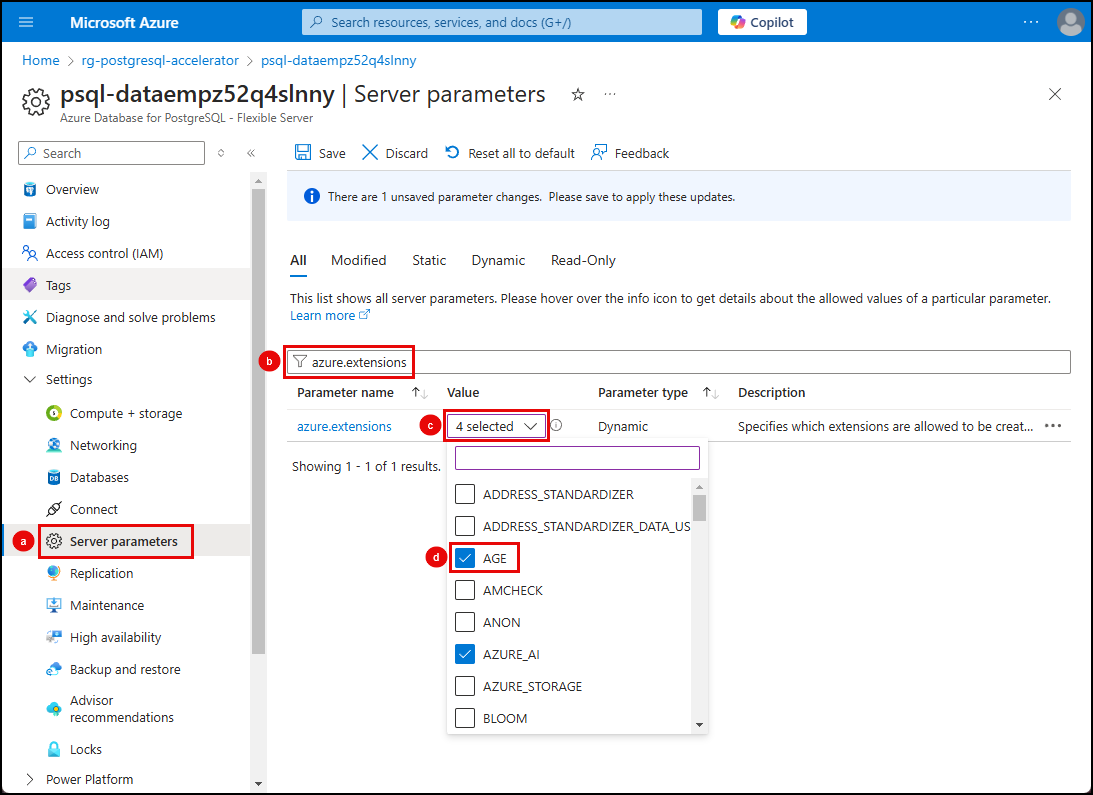
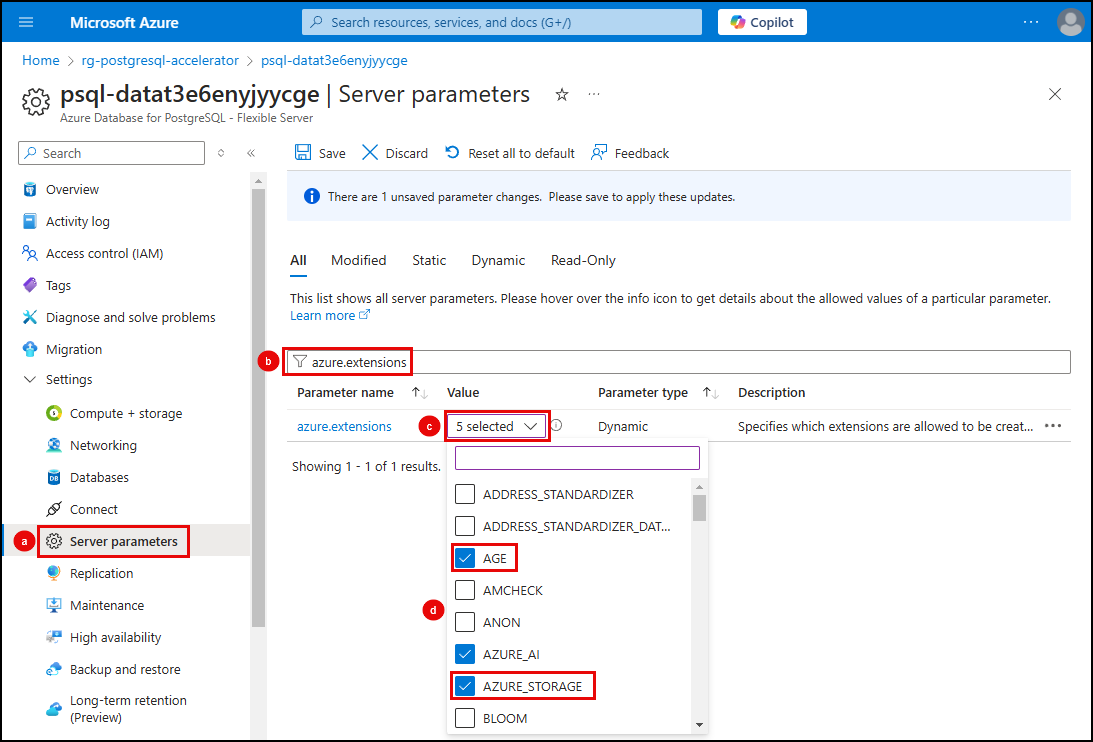
Updating GraphRAG docs

Changed region(s): [[0.0, 0.0, 1.0, 1.0], [0.2177, 0.8059, 0.2489, 0.8369], [0.2177, 0.217, 0.2489, 0.248]]

diff --git a/docs/workshop/docs/06-Improve-RAG-Accuracy/04.md b/docs/workshop/docs/06-Improve-RAG-Accuracy/04.md
@@ -1,39 +1,33 @@
 # 6.4 Review GraphRAG
 
-**GraphRAG** (Graph Retrieval-Augmented Generation) is an innovative technique developed by Microsoft Research. It significantly enhances the accuracy and relevance of responses generated by Retrieval-Augmented Generation (RAG) systems. _Graph_ refers to a data structure that represents entities and their relationships. This structure is often visualized as nodes (vertices) and edges, where nodes represent entities and edges represent the relationships or connections between these entities.
-
-The GraphRAG technique involves three main steps:
-
-1. **Graph Extraction**: Creating a knowledge graph from the source data.
-2. **Entity Summarization**: Summarizing entities within the graph to capture essential information.
-3. **Graph Query Generation**: Generating graph queries at query time to retrieve relevant information based on the prominence and relationships within the graph.
+**GraphRAG** (Graph Retrieval-Augmented Generation) is an innovative technique developed by Microsoft Research. It significantly enhances the accuracy and relevance of responses generated by Retrieval-Augmented Generation (RAG) systems. _Graph_ refers to a data structure representing entities and their relationships. This structure is often visualized as nodes (vertices) and edges, where nodes represent entities and edges represent the relationships or connections between these entities.
 
 In the context of Azure Database for PostgreSQL, GraphRAG leverages the structure of knowledge graphs extracted from source data to provide better context and improve the quality of responses from language models. By integrating GraphRAG with PostgreSQL, you can enhance the information retrieval pipeline, making it more accurate and context-aware. This is particularly useful for applications where the accuracy and relevance of information are critical.
 
+???+ question "Want a more extensive example of GraphRAG with Azure Database for PostgreSQL?"
+
+    This solution accelerator presents a simplified GraphRAG implementation to show you how you can improve the accuracy of RAG by leveraging a graph database. For a more comprehensive example that combines the results of semantic ranking and GraphRAG, please refer to the [Introducting the GraphRAG Solution for Azure Database for PostgreSQL](https://techcommunity.microsoft.com/blog/adforpostgresql/introducing-the-graphrag-solution-for-azure-database-for-postgresql/4299871) blob post and associated [GraphRAG Solution Accelerator for Azure Database for PostgreSQL](https://github.com/Azure-Samples/graphrag-legalcases-postgres).
+
 ## GraphRAG with AGE
 
-[Apache Graph Extension](https://age.apache.org/age-manual/master/index.html) (AGE) is a PostgreSQL extension developed under the Apache Incubator project. It offers a significant advancement that provides graph processing capabilities within the PostgreSQL ecosystem, enabling users to store and query graph data efficiently. This new extension brings a powerful toolset for developers looking to leverage a graph database with the robust enterprise features of Azure Database for PostgreSQL.
+[Apache Graph Extension](https://age.apache.org/age-manual/master/index.html) (AGE) is a PostgreSQL extension developed under the Apache Incubator project. It offers a significant advancement that provides graph processing capabilities within the PostgreSQL ecosystem, enabling users to store efficiently and query graph data. This new extension brings a powerful toolset for developers looking to leverage a graph database with the robust enterprise features of Azure Database for PostgreSQL.
 
 ![Architecture diagram for GraphRAG using the Apache AGE extension and Azure Database for PostgreSQL.](../img/graphrag-solution-architecture.png)
 
 With AGE, you can manage and analyze complex relationships within your data, uncovering insights that traditional relational databases and even semantic search might miss.
 
----
+### Key Features
 
-_Select the tabs below to discover the key features and benefits of using AGE in Azure Database for PostgreSQL._
+- **Graph and relational data integration**: AGE allows seamless integration of graph data with existing relational data in PostgreSQL. This hybrid approach lets you benefit from both graph and relational models simultaneously.
+- **openCypher query language**: AGE incorporates openCypher, a powerful and user-friendly query language designed explicitly for graph databases. This feature simplifies the process of writing and executing graph queries.
+- **High performance**: AGE is optimized for performance, ensuring efficient storage and retrieval of graph data thanks to support for indexing graph properties using GIN indices.
+- **Scalability**: Built on PostgreSQL's proven architecture, AGE inherits its scalability and reliability, allowing it to handle growing datasets and increasing workloads.
 
-=== "Key Features"
+### Benefits
 
-    - **Graph and Relational Data Integration**: AGE allows seamless integration of graph data with existing relational data in PostgreSQL. This hybrid approach lets you benefit from both graph and relational models simultaneously.
-    - **openCypher Query Language**: AGE incorporates openCypher, a powerful and user-friendly query language specifically designed for graph databases. This feature simplifies the process of writing and executing graph queries.
-    - **High Performance**: AGE is optimized for performance, ensuring efficient storage and retrieval of graph data thanks to support for indexing graph properties using GIN indices.
-    - **Scalability**: Built on PostgreSQL's proven architecture, AGE inherits its scalability and reliability, allowing it to handle growing datasets and increasing workloads.
+The integration of AGE in Azure Database for PostgreSQL brings numerous practical benefits to developers and businesses looking to leverage graph processing capabilities:
 
-=== "Benefits"
-
-    The integration of AGE in Azure Database for PostgreSQL brings numerous practical benefits to developers and businesses looking to leverage graph processing capabilities:
-    
-    - **Simplified Data Management**: AGE's ability to integrate graph and relational data simplifies data management tasks, reducing the need for separate graph database solutions.
-    - **Enhanced Data Analysis**: With AGE, you can perform complex graph analyses directly within your PostgreSQL database, gaining deeper insights into relationships and patterns in your data.
-    - **Cost Efficiency**: By utilizing AGE within Azure Database for PostgreSQL, you can consolidate your database infrastructure, lowering overall costs and reducing the complexity of your data architecture.
-    - **Security and Compliance**: AGE leverages Azure's industry-leading security and compliance features to ensure your graph data is protected and meets regulatory requirements, providing you with peace of mind.
+- **Simplified data management**: AGE's ability to integrate graph and relational data simplifies data management tasks, reducing the need for separate graph database solutions.
+- **Enhanced data analysis**: With AGE, you can perform complex graph analyses directly within your PostgreSQL database, gaining deeper insights into relationships and patterns in your data.
+- **Cost efficiency**: By utilizing AGE within Azure Database for PostgreSQL, you can consolidate your database infrastructure, lowering overall costs and reducing the complexity of your data architecture.
+- **Security and compliance**: AGE leverages Azure's industry-leading security and compliance features to ensure your graph data is protected and meets regulatory requirements, providing peace of mind.

diff --git a/docs/workshop/docs/06-Improve-RAG-Accuracy/05.md b/docs/workshop/docs/06-Improve-RAG-Accuracy/05.md
@@ -1,10 +1,12 @@
 # 6.5 Enable AGE
 
-The **Apache AGE** (`age`) extension enhances PostgreSQL by allowing it to be used as a graph database, providing a comprehensive solution for analyzing interconnected data. With `age`, you can define and query complex data relationships using graph structures. Before using AGE, add it to the PostgreSQL server's _allowlist_, configure it as a shared preloaded library, and install it in your database.
+The **Apache AGE** (`age`) extension enhances PostgreSQL by allowing it to be used as a graph database, providing a comprehensive solution for analyzing interconnected data. With `age`, you can define and query complex data relationships using graph structures.
 
-## Allowlist the extension
+To simplify the extraction of data from your PostgreSQL database into CSV files hosted in Azure Blob Storage, you will also use the [Azure Storage extension](https://learn.microsoft.com/azure/postgresql/flexible-server/how-to-use-pg-azure-storage) (`azure_storage`). This extension allows you to connect directly to an Azure Storage account from your PostgreSQL database, copy data out of the database, and write it into files in blob storage. From your storage account, the CSV files will be used as the data source for your graph database.
 
-Before installing and using extensions in Azure Database for PostgreSQL flexible server, you must add them to the server's _allowlist_, as described in [how to use PostgreSQL extensions](https://learn.microsoft.com/azure/postgresql/extensions/how-to-allow-extensions).
+## Allowlist the extensions
+
+Before using `age` and `azure_storage` extensions, add them to the PostgreSQL server's _allowlist_, configure them as shared preloaded libraries, and install them in your database.
 
 _Select the tab for the method you want to use for allowlisting the extensions and follow the instructions provided._
 
@@ -19,7 +21,7 @@ _Select the tab for the method you want to use for allowlisting the extensions a
             - **[YOUR_SUBSCRIPTION_ID]**: Your Azure subscription ID.
         
         ```bash
-        az postgres flexible-server parameter set --resource-group [YOUR_RESOURCE_GROUP] --server-name [YOUR_POSTGRESQL_SERVER] --subscription [YOUR_SUBSCRIPTION_ID] --name azure.extensions --value age
+        az postgres flexible-server parameter set --resource-group [YOUR_RESOURCE_GROUP] --server-name [YOUR_POSTGRESQL_SERVER] --subscription [YOUR_SUBSCRIPTION_ID] --name azure.extensions --value age,azure_storage
         ```
 
 === "Azure portal"
@@ -30,15 +32,15 @@ _Select the tab for the method you want to use for allowlisting the extensions a
         1. Expand the **Settings** section and select **Server parameters**.
         2. Enter "azure.extensions" into the search filter.
         3. Expand the **VALUE** dropdown list.
-        4. Select the **AGE** extension by checking the its box in the **VALUE** dropdown list.
+        4. Select the **AGE** and **AZURE_STORAGE** extensions by checking the box for each in the **VALUE** dropdown list.
 
-        ![Screenshot of the steps to allowlist the AGE extension in the Azure portal.](../img/allow-extensions-age.png)
+        ![Screenshot of the steps to allowlist the AGE and AZURE_STORAGE extensions in the Azure portal.](../img/allow-extensions-age.png)
 
-## Load AGE on server start
+## Load extensions on server start
 
 Some Postgres libraries need to perform certain operations that can only take place at postmaster start, such as allocating shared memory, reserving lightweight locks, or starting background workers. `AGE` relies on shared memory for its operations, so it must be loaded at server start. The `shared_preload_libraries` parameter in PostgreSQL is used to specify libraries that should be loaded at server startup, enabling additional functionalities or extensions before any connections are made.
 
-_Select the tab for the method you want to use for updating the `shared_preload_libraries` parameter and follow the instructions provided._
+_Select the tab for the method you want to use to update the `shared_preload_libraries` parameter and follow the instructions provided._
 
 === "Azure CLI"
 
@@ -51,7 +53,7 @@ _Select the tab for the method you want to use for updating the `shared_preload_
             - **[YOUR_SUBSCRIPTION_ID]**: Your Azure subscription ID.
         
         ```bash
-        az postgres flexible-server parameter set --resource-group [YOUR_RESOURCE_GROUP] --server-name [YOUR_POSTGRESQL_SERVER] --subscription [YOUR_SUBSCRIPTION_ID] --name shared_preload_libraries --value age,pg_cron,pg_stat_statements
+        az postgres flexible-server parameter set --resource-group [YOUR_RESOURCE_GROUP] --server-name [YOUR_POSTGRESQL_SERVER] --subscription [YOUR_SUBSCRIPTION_ID] --name shared_preload_libraries --value age,azure_storage,pg_cron,pg_stat_statements
         ```
     
         !!! info "`pg_cron` and `pg_stat_statements` are set by default, so they are included in the above command to avoid removing them from the `shared_preload_libraries` parameter."
@@ -74,16 +76,20 @@ _Select the tab for the method you want to use for updating the `shared_preload_
 
         1. Enter "shared_preload" into the search filter.
         2. Expand the **VALUE** dropdown list.
-        3. Select the **AGE** extension by checking the its box in the **VALUE** dropdown list.
+        3. Select the **AGE** and **AZURE_STORAGE** extensions by checking the box for each in the **VALUE** dropdown list.
         4. Select **Save** on the toolbar.
 
-        ![Screenshot of the steps to add AGE to the shared_preload_libraries parameter in the Azure portal.](../img/shared-preload-libraries-add-age.png)
+        ![Screenshot of the steps to add AGE and AZURE_STORAGE to the shared_preload_libraries parameter in the Azure portal.](../img/shared-preload-libraries-add-age.png)
 
-    2. Select **Save** will trigger a restart of the PostgreSQL server and will take a few seconds to complete. 
+    2. Select **Save** will trigger a restart of the PostgreSQL server and will take a few seconds to complete.
 
-## Install AGE
+    3. In the _Save server parameter_ dialog that appears, select **Save and Restart**.
 
-With the `AGE` extension added to the _allowlist_ and loaded on your PostgreSQL server, you can install it in your database using the [CREATE EXTENSION](https://www.postgresql.org/docs/current/sql-createextension.html) command.
+        ![Screenshot of the Save server parameter dialog, with the Save and Restart button highlighted.](../img/azure-postgresql-save-server-parameter-dialog.png)
+
+## Install extensions
+
+With the `AGE` and `AZURE_STORAGE` extensions added to the _allowlist_ and loaded on your PostgreSQL server, you can install them in your database using the [CREATE EXTENSION](https://www.postgresql.org/docs/current/sql-createextension.html) command.
 
 !!! warning "At this time, the AGE extension is in preview and will only be available for newly created Azure Database for PostgreSQL Flexible Server instances running at least PG13 up to PG16."
 
@@ -95,8 +101,9 @@ You will use **pgAdmin** to install the extension by executing a SQL command aga
 
 3. Right-click the **contracts** database and select **Query Tool** from the context menu.
 
-4. Install the `age` extension by running the following `CREATE EXTENSION` command in the pgAdmin query window:
+4. Install the `age` and `azure_storage` extensions by running the following `CREATE EXTENSION` commands in the pgAdmin query window:
 
     ```sql title=""
     CREATE EXTENSION IF NOT EXISTS age;
+    CREATE EXTENSION IF NOT EXISTS azure_storage;
     ```

diff --git a/docs/workshop/docs/06-Improve-RAG-Accuracy/06.md b/docs/workshop/docs/06-Improve-RAG-Accuracy/06.md
@@ -1,3 +1,115 @@
-# 6.6 Update App With GraphRAG
+# 6.6 Export Graph Data
 
-TODO: Add a new API endpoint associated with the copilot to allow GraphRAG queries to be executed and relationship nodes returned...
+You must export data from your PostgreSQL database to populate your graph database. Using the Azure Storage (`azure_storage`) extension for Azure Database for PostgreSQL provides a streamlined method for copying data out of your PostgreSQL database into CSV files in Azure Blob Storage. In the context of `AGE` and loading data into a graph database, the `azure_storage` extension facilitates the extraction of relational data from your PostgreSQL database, enabling efficient transfer to Blob Storage. This process ensures that the data needed for constructing and querying your graph database is readily available and can be seamlessly integrated into your data workflows.
+
+## Connect your database to Azure Storage
+
+You will use **pgAdmin** to configure the `azure_storage` extension's connection to your storage account by executing SQL commands against your database.
+
+!!! note "Ensure you replace the token in the commands below with the appropriate values from your Azure environment."
+
+    Each SQL statement you will execute below contains a `[YOUR_STORAGE_ACCOUNT_NAME]` token. Before running any of the queries, you must replace this token with the name of your _Storage account_ resource, which you can copy from the Azure portal.
+
+1. On your local machine, return to the open instance of **pgAdmin** (or open it if you have closed it) and ensure it is connected to your PostgreSQL database.
+
+2. In the pgAdmin **Object Explorer**, expand databases under your PostgreSQL server.
+
+3. Right-click the **contracts** database and select **Query Tool** from the context menu.
+
+4. Run the following command to use the `azure_storage.account_add()` function to define a connection between your storage account and your PostgreSQL database:
+
+    ```sql
+    SELECT azure_storage.account_add(azure_storage.account_options_managed_identity('[YOUR_STORAGE_ACCOUNT_NAME]', 'blob'));
+    ```
+
+    ??? note "About the `account_add() function"
+
+        In the above `account_add()` function call, the `azure_storage.account_options_managed_identity()` function is passed as the `account_config` parameter. This function returns a _JSONB_ object containing the configuration required to authenticate against the storage account using your PostgreSQL database's managed identity. It expects the name of the target storage account and the storage type, which currently only supports `blob`. Your PostgreSQL database was configured with a system-assigned identity during resource provisioning. That identity was granted the `Storage Blob Data Contributor` role on your storage account, which allows your database to read and write files from blob storage.
+
+## Export data to blob storage
+
+As part of the data export process, you will use queries to reshape the source data into the format required to efficiently define nodes and edges in your graph database. Traditional relational databases organize data in tables, while graph databases use nodes and edges to represent entities and their relationships. Converting tabular data into nodes and edges aligns with the graph structure, making relationship analysis more efficient. This transformation enables natural modeling of real-world entities, optimizes query performance, and allows for complex relationship analysis, such as evaluating vendor performance and invoice validation. By reshaping your data, you can fully leverage the strengths of `AGE` and Azure Database for PostgreSQL for deeper insights and sophisticated analyses.
+
+You will define three _nodes_ and one _edge_ in your graph database. The nodes will contain data vendor, SOW, and invoice validation results data. The edge will define the relationship between these.
+
+You will use **pgAdmin** to execute data export queries leveraging the `azure_storage` extension.
+
+1. Return to the open **Query Tool** in **pgAdmin**.
+
+2. Run the following query using the `azure_storage.blob_put()` function to write all data from the `vendors` table into a CSV file named `vendors.csv` into your storage account's `graph` container. This data will define the `vendor` node in your graph database.
+
+    ```sql
+    -- Extract data for the vendors node
+    SELECT azure_storage.blob_put(
+        '[YOUR_STORAGE_ACCOUNT_NAME]',
+        'graph',
+        'vendors.csv',
+        vendors,
+        'csv',
+        'none',
+        azure_storage.options_csv_put(header:=true)
+    )
+    FROM (
+        SELECT * FROM vendors
+    ) AS vendors;
+    ```
+
+3. Execute this query to extract `sow` node data from the `sows` table and write it into a CSV file named `sows.csv` into your storage account's `graph` container. The query excludes a few columns from the `sows` table, including the `embedding` column, as they are unnecessary in the graph database and can cause errors.
+
+    ```sql
+    -- Extract data for the SOWs node
+    SELECT azure_storage.blob_put(
+        '[YOUR_STORAGE_ACCOUNT_NAME]',
+        'graph',
+        'sows.csv',
+        sows,
+        'csv',
+        'none',
+        azure_storage.options_csv_put(header:=true)
+    )
+    FROM (
+        SELECT id, number, vendor_id, start_date, end_date, budget FROM sows
+    ) AS sows;
+    ```
+
+4. Run this query to extract `invoice_validation_results` node data from the `invoice_validation_results` table and write it into a CSV file named `invoice_validation_results.csv` into the `graph` container in your storage account. The query excludes the `embedding` column from the `invoice_validation_results` table.
+
+    ```sql
+    -- Extract data for the Invoice validation results node
+    SELECT azure_storage.blob_put(
+        '[YOUR_STORAGE_ACCOUNT_NAME]',
+        'graph',
+        'invoice_validation_results.csv',
+        invoice_validation_results,
+        'csv',
+        'none',
+        azure_storage.options_csv_put(header:=true)
+    )
+    FROM (
+        SELECT id, invoice_id, datestamp, result, validation_passed FROM invoice_validation_results
+    ) AS invoice_validation_results;
+    ```
+
+5. Finally, run the following query to extract `has_invoices` edge data from the `invoices` table and write it into a CSV file named `has_invoices.csv` into the `graph` container in your storage account:
+
+    ```sql
+    -- Create the has_invoices edge
+    SELECT azure_storage.blob_put(
+        '[YOUR_STORAGE_ACCOUNT_NAME]',
+        'graph',
+        'has_invoices.csv',
+        invoices,
+        'csv',
+        'none',
+        azure_storage.options_csv_put(header:=true)
+    )
+    FROM (
+        SELECT id, vendor_id as start_id, 'vendor' AS start_vertex_type, sow_id AS end_id, 'sow' AS end_vertex_type, number, amount, invoice_date, payment_status FROM invoices
+    ) AS invoices;
+    ```
+
+    !!! note "Edge definition details"
+
+        When using `AGE`, edges must contain details about the relationships between nodes. These are defined in the above query by specifying the `start_id`, `start_vertex_type`, `end_id`, and `end_vertex_type` columns. The '_id' columns are mapped to the `vendor_id` and `sow_id`, respectively, and the start and end vertex types are strings specifying the type of the ID.
+
+!!! success "Congratulations! You have successfully exported data to create your graph database!"

diff --git a/docs/workshop/docs/02-Setup/1-Provision-And-Setup/05-Setup-Dev-Env.md b/docs/workshop/docs/02-Setup/1-Provision-And-Setup/05-Setup-Dev-Env.md
@@ -7,7 +7,7 @@ In this step, you will configure your Python development environment in Visual S
 - [X] Create and populated a `.env` file in the **Woodgrove API** project.
 - [X] Connected to your database using pgAdmin
 
-## **Create a Python virtual environment**
+## Create a Python virtual environment
 
 Virtual environments in Python are essential for maintaining a clean and organized development space, allowing individual projects to have their own set of dependencies, isolated from others. This prevents conflicts between different projects and ensures consistency in your development workflow. By using virtual environments, you can manage package versions easily, avoid dependency clashes, and keep your projects running smoothly. It's a best practice that keeps your coding environment stable and dependable, making your development process more efficient and less prone to issues.
 
@@ -39,7 +39,7 @@ Virtual environments in Python are essential for maintaining a clean and organiz
 
 5. Execute the command at the terminal prompt to activate your virtual environment.
 
-## **Install required Python libraries**
+## Install required Python libraries
 
 The `requirements.txt` file in the `src\api` folder contains the set of Python libraries needed to run the Python components of the solution accelerator.
 
@@ -53,7 +53,7 @@ The `requirements.txt` file in the `src\api` folder contains the set of Python l
     pip install -r requirements.txt
     ```
 
-## **Create `.env` file**
+## Create `.env` file
 
 Configuration values, such as connection string and endpoints, that allow your application to interact with Azure services are hosted in an Azure App Configuration service. To enable your application to retrieve these values, you must provide it with the endpoint of that service. You will use a `.env` file to host the endpoint as an environment variable, which will allow you to run the Woodgrove API locally. The `.env` file will be created within the `src\api\app` folder of the project.
 
@@ -83,7 +83,7 @@ Configuration values, such as connection string and endpoints, that allow your a
 
 5. Save the `.env` file.
 
-## **Connect to your database from pgAdmin**
+## Connect to your database from pgAdmin
 
 You will use pgAdmin from your machine to configure various features in the database and execute queries to test those features. The `azd up` deployment script added your Microsoft Entra ID user as the owner of the database, so you will authenticate with Entra ID to. Please follow the steps below to connect to your Azure Database for PostgreSQL - Flexible Server using pgAdmin:
 
